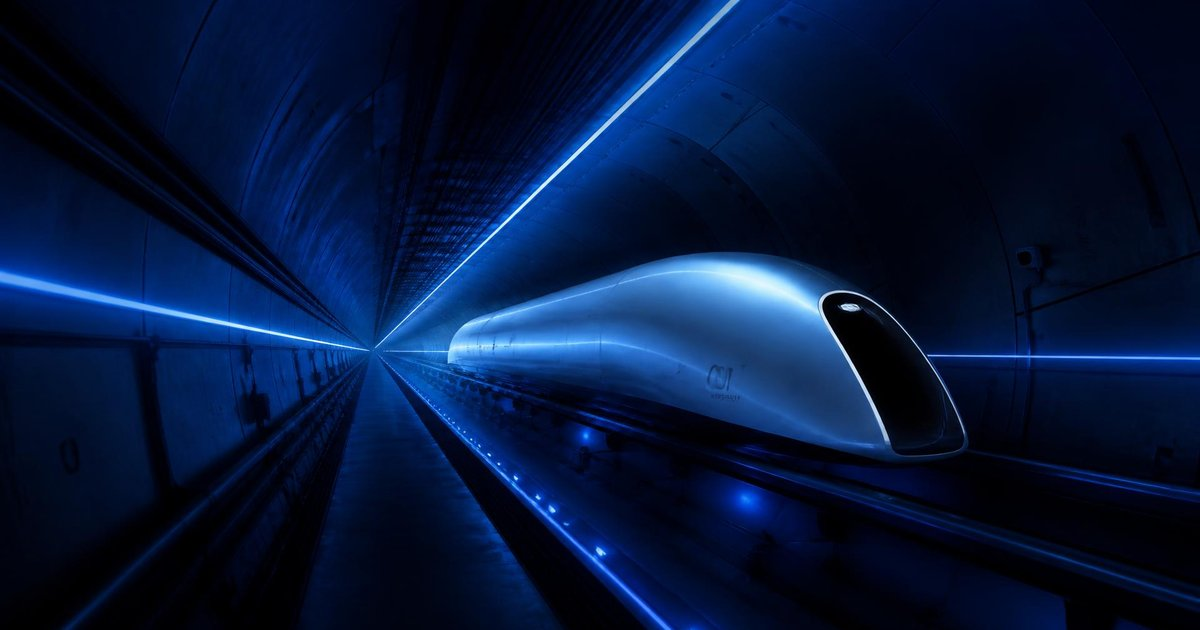
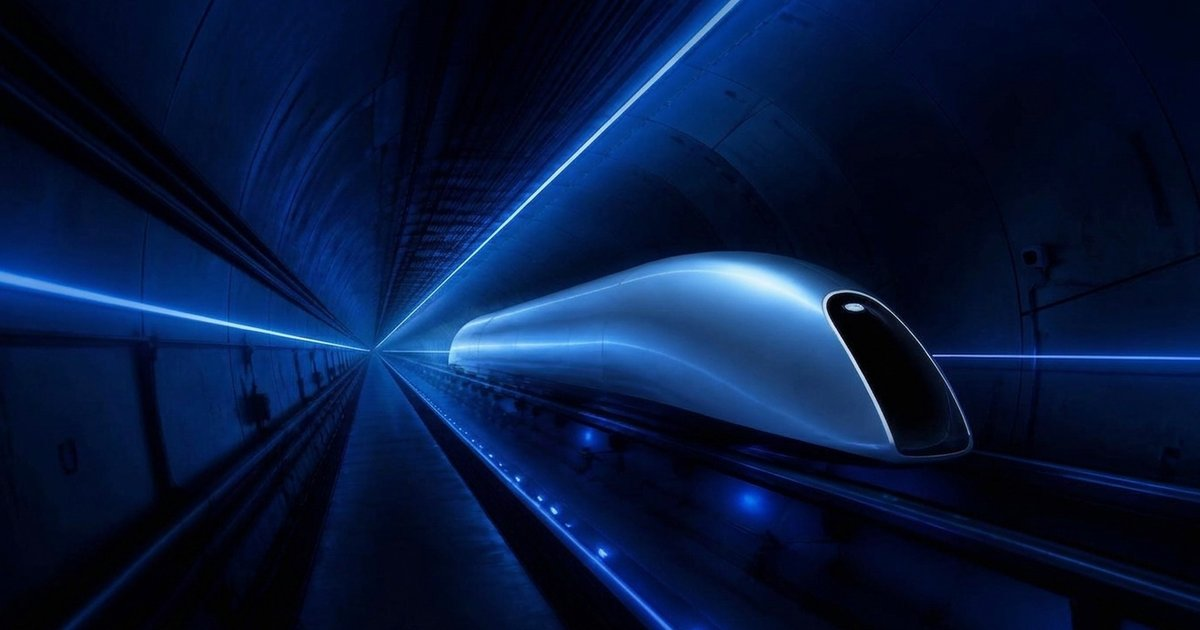
Hero images update.

diff --git a/src/routes/hyperloop.tsx b/src/routes/hyperloop.tsx
@@ -8,6 +8,7 @@ import hyperloopTubeDiagramLight from "../assets/hyperloop-tube-diagram-light.jp
 import hyperloopVideoThumbnail from "../assets/hyperloop-video-thumbnail.jpg";
 import landscapeTube from "../assets/hyperloop-landscape-tube.jpg";
 import landscapeTubeLight from "../assets/hyperloop-landscape-tube-light.jpg";
+import vehicleInTube from "../assets/vehicle-in-tube.png";
 import { Magnetic } from "../components/Magnetic";
 import { PageHero } from "../components/PageHero";
 import { Reveal } from "../components/Reveal";
@@ -181,6 +182,24 @@ function Hyperloop() {
               </Reveal>
             ))}
           </div>
+        </div>
+      </section>
+
+      <section>
+        <div className="mx-auto max-w-[1400px] px-6 lg:px-10">
+          <Reveal>
+            <div className="mx-auto max-w-2xl rounded-[2rem] bg-surface/60 p-10 text-center sm:p-14">
+              <img
+                src={vehicleInTube}
+                alt="Cutaway view of a hyperloop vehicle riding inside its illuminated low-pressure tube"
+                loading="lazy"
+                className="mx-auto w-full max-w-md"
+              />
+              <p className="mt-8 text-sm text-muted-foreground">
+                Levitation, propulsion and the low-pressure tube, working together in motion.
+              </p>
+            </div>
+          </Reveal>
         </div>
       </section>
 
